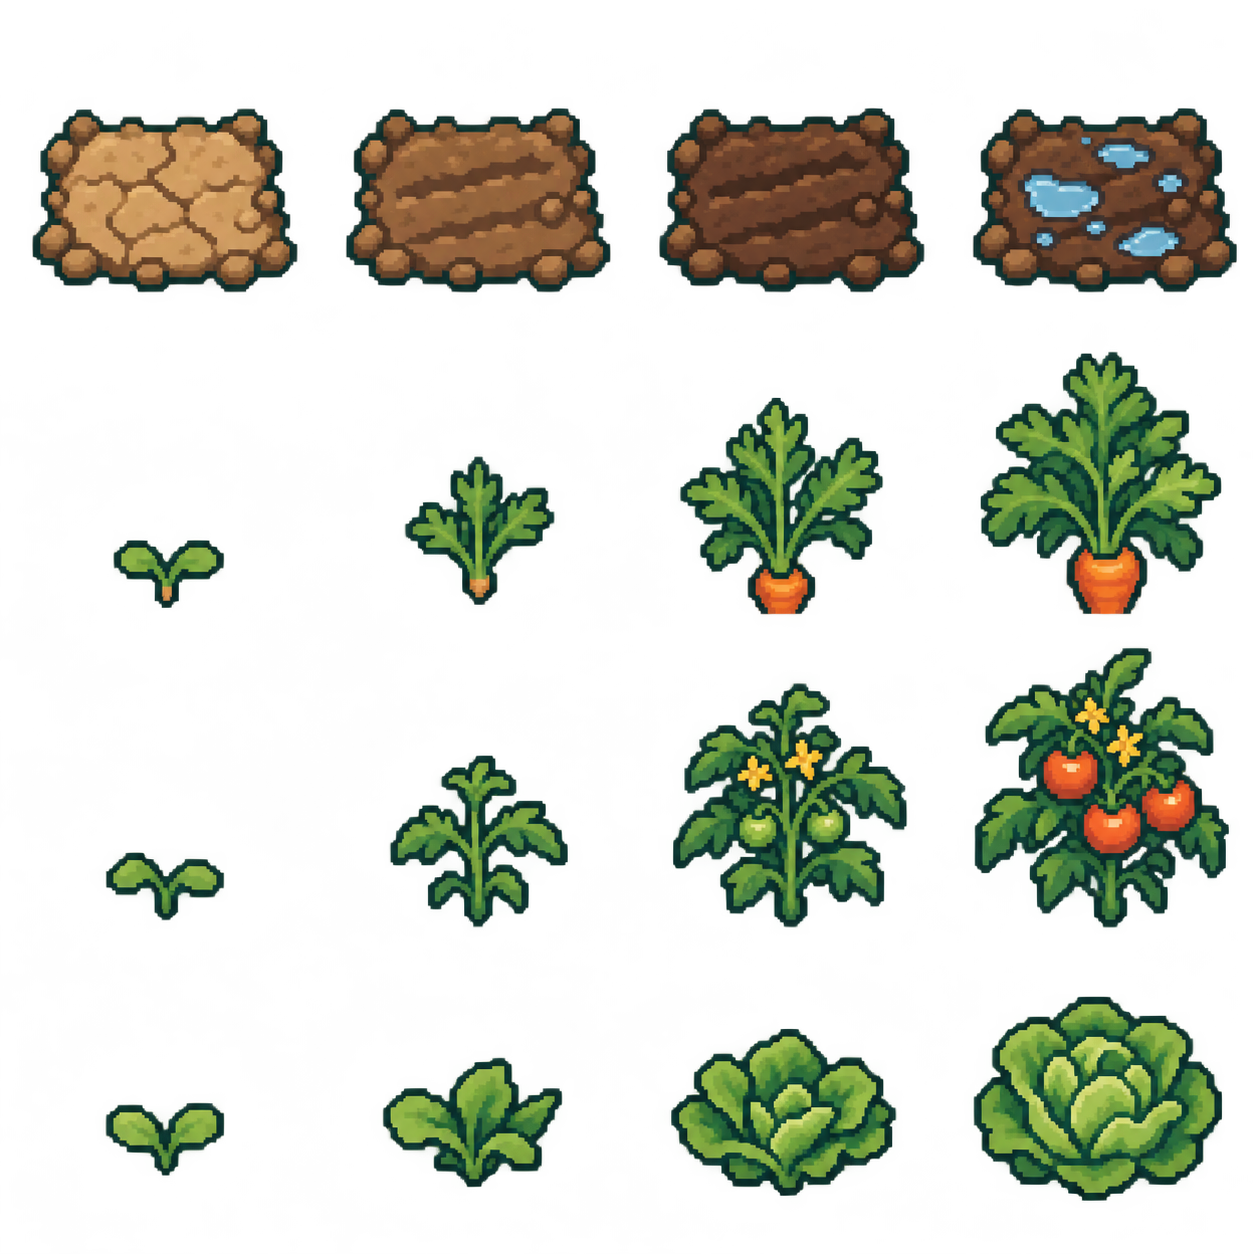
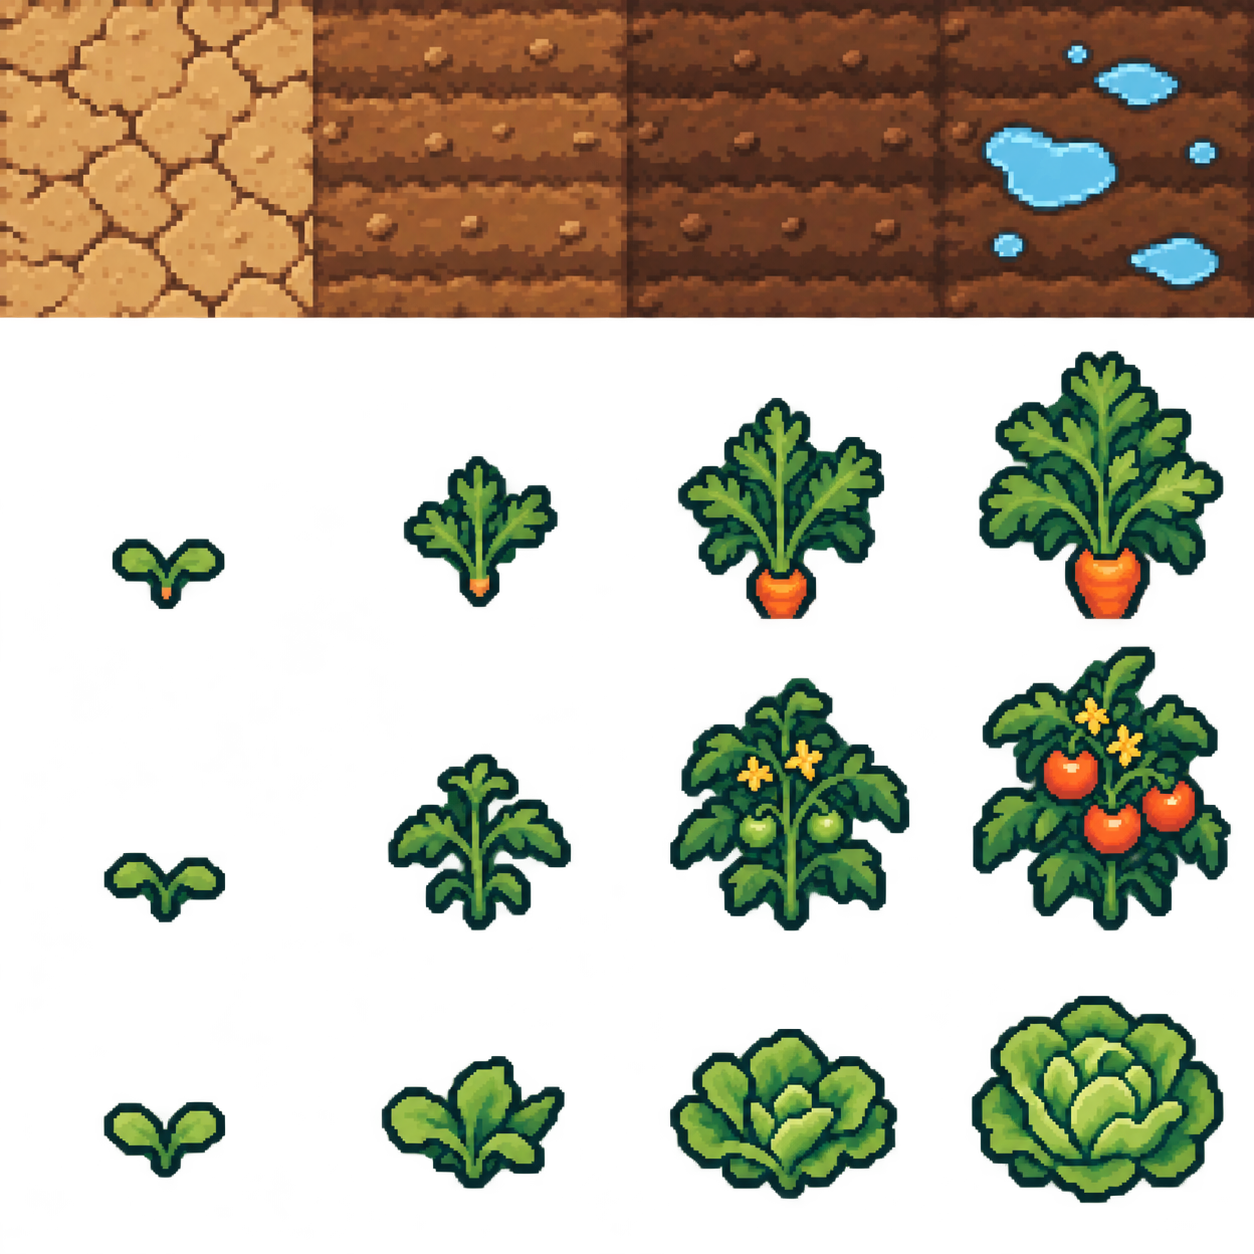
重新製作方正農田素材並新增拼接外觀展示

diff --git a/style.css b/style.css
@@ -1,4 +1,4 @@
-:root{--ink:#263f3c;--teal:#35665b;--mint:#8fc7a3;--cream:#f0e4bb;--paper:#edf0df;--line:#c1cfb9}*{box-sizing:border-box}body{margin:0;background:var(--paper);color:var(--ink);font-family:"PingFang TC","Microsoft JhengHei",sans-serif}header{padding:24px 5vw;border-bottom:1px solid var(--line);display:flex;justify-content:space-between;align-items:center}.brand{font-weight:800;font-size:22px}.brand small{font-size:11px;font-weight:400;margin-left:20px;letter-spacing:2px}.tag,.eyebrow{font-size:12px;letter-spacing:2px}.tag{border:1px solid var(--teal);padding:8px 12px}main{max-width:1320px;margin:auto;padding:0 40px}.intro{display:flex;justify-content:space-between;align-items:center;padding:36px 0 30px}.intro h1{font-family:"Songti TC",serif;font-size:40px;line-height:1.25;margin:12px 0}.intro>p{font-size:14px;line-height:1.9;color:#607568;padding-right:38px}.eyebrow{color:var(--teal)}.workbench{display:grid;grid-template-columns:minmax(0,1fr) 290px;border:1px solid var(--teal);box-shadow:6px 6px 0 #c1cfb9}.scene-panel{min-width:0;background:#dae5ce}.scene-top{padding:15px 20px;background:var(--teal);color:#f0e4bb;display:flex;justify-content:space-between;font-size:12px}.live{color:#c7e5b3}.climate{display:flex;justify-content:space-around;padding:16px;font-size:11px;background:#e4ead7}.climate b{font-family:monospace;font-size:15px;margin-left:8px}.greenhouse{height:405px;position:relative;overflow:hidden;background:#b8d3be}.windows{position:absolute;inset:0 0 100px;background:repeating-linear-gradient(90deg,transparent 0,transparent calc(25% - 7px),#719484 calc(25% - 7px),#719484 25%),linear-gradient(#badbd0,#d9e9bd);border-bottom:12px solid #779784}.windows:after{content:"";position:absolute;top:85px;left:0;right:0;border-top:6px solid #90ae96}.floor{position:absolute;inset:210px 0 0;background:repeating-linear-gradient(0deg,transparent 0,transparent 39px,#acc1a1 40px),#c7d0a5;transform:skewY(-3deg);border-top:6px solid #99ae89}.plots{position:absolute;inset:60px 5% 28px;display:grid;grid-template-columns:repeat(3,1fr);grid-template-rows:repeat(2,1fr)}.plot{position:relative;background:transparent;border:0;cursor:pointer;min-width:0;padding:0;isolation:isolate}.plot:after{content:"";position:absolute;bottom:13px;left:20%;width:60%;height:8px;background:#f0e4bb;opacity:0;z-index:-1}.plot.selected:after{opacity:1}.sprite{background-repeat:no-repeat;background-size:400% 400%;image-rendering:pixelated;pointer-events:none}.farm{background-image:url('assets/farm-atlas-v01.png?v=04')}.soil{position:absolute;width:150px;height:150px;left:50%;bottom:-10px;transform:translateX(-50%)}.plant{position:absolute;width:115px;height:115px;left:50%;bottom:23px;transform:translateX(-50%)}.bot{position:absolute;width:132px;height:132px;left:8%;top:88px;transition:left .65s,top .65s;pointer-events:none;filter:drop-shadow(0 12px 0 #476b5022)}.robot{background-image:url('assets/robot-atlas-v01.png');width:100%;height:100%}.scene-label{position:absolute;bottom:12px;left:0;right:0;text-align:center;color:#536f55;font-size:11px}.scene-foot{display:flex;justify-content:space-between;align-items:center;padding:12px 20px;font-size:12px;border-top:1px solid #adc1a5}button,select{font:inherit;color:var(--ink)}button{cursor:pointer}button:focus-visible,select:focus-visible,input:focus-visible,a:focus-visible{outline:3px solid #bd7534;outline-offset:3px}.scene-foot button{border:0;background:transparent;text-decoration:underline;padding:8px}aside{background:#f4f3e6;padding:24px;border-left:1px solid var(--teal)}h2{font-size:20px;margin:9px 0 24px}label{display:block;font-size:12px;margin:22px 0 10px}label span{float:right;color:var(--teal)}.choices{display:grid;grid-template-columns:repeat(4,1fr);gap:5px}.choices button{border:1px solid var(--line);background:transparent;padding:9px 0;font-size:12px}.choices .active{background:var(--teal);color:#fff;border-color:var(--teal)}select{width:100%;background:#edf0df;border:1px solid var(--line);padding:11px}input{width:100%;accent-color:var(--teal)}.range-label{display:flex;justify-content:space-between;font-size:10px;color:#6e7c6b}.note{font-size:11px;line-height:1.8;color:#7a8475;margin-top:23px}.library{padding:45px 0 15px}.library-heading{display:flex;justify-content:space-between;align-items:center}.library-heading>span{font-size:12px;color:#6e7c6b}.catalog-row{display:grid;grid-template-columns:120px repeat(4,1fr);align-items:center;border-top:1px solid var(--line);padding:12px 0}.catalog-row strong{font-size:13px}.sample{text-align:center;font-size:11px;color:#607568}.sample .sprite{width:94px;height:94px;margin:auto}.sample .robot{background-image:url('assets/robot-atlas-v01.png')}footer{display:flex;gap:22px;flex-wrap:wrap;padding:25px 0 40px;border-top:1px solid var(--line);font-size:11px}a{color:var(--teal)}@media(max-width:850px){main{padding:0 18px}.workbench{grid-template-columns:1fr}aside{border-left:0;border-top:1px solid var(--teal)}.intro h1{font-size:32px}.intro>p{display:none}.brand small{display:none}.greenhouse{height:390px}.catalog-row{grid-template-columns:70px repeat(4,1fr)}.sample .sprite{width:65px;height:65px}.library-heading>span{font-size:10px}.soil{width:120px;height:120px}.plant{width:96px;height:96px;bottom:15px}.bot{width:110px;height:110px}.scene-top{padding:12px;font-size:10px}.climate{padding:12px 4px}.climate b{font-size:12px}.tag{font-size:10px}.library-heading h2{font-size:18px}}@media(prefers-reduced-motion:reduce){.bot{transition:none}}
+:root{--ink:#263f3c;--teal:#35665b;--mint:#8fc7a3;--cream:#f0e4bb;--paper:#edf0df;--line:#c1cfb9}*{box-sizing:border-box}body{margin:0;background:var(--paper);color:var(--ink);font-family:"PingFang TC","Microsoft JhengHei",sans-serif}header{padding:24px 5vw;border-bottom:1px solid var(--line);display:flex;justify-content:space-between;align-items:center}.brand{font-weight:800;font-size:22px}.brand small{font-size:11px;font-weight:400;margin-left:20px;letter-spacing:2px}.tag,.eyebrow{font-size:12px;letter-spacing:2px}.tag{border:1px solid var(--teal);padding:8px 12px}main{max-width:1320px;margin:auto;padding:0 40px}.intro{display:flex;justify-content:space-between;align-items:center;padding:36px 0 30px}.intro h1{font-family:"Songti TC",serif;font-size:40px;line-height:1.25;margin:12px 0}.intro>p{font-size:14px;line-height:1.9;color:#607568;padding-right:38px}.eyebrow{color:var(--teal)}.workbench{display:grid;grid-template-columns:minmax(0,1fr) 290px;border:1px solid var(--teal);box-shadow:6px 6px 0 #c1cfb9}.scene-panel{min-width:0;background:#dae5ce}.scene-top{padding:15px 20px;background:var(--teal);color:#f0e4bb;display:flex;justify-content:space-between;font-size:12px}.live{color:#c7e5b3}.climate{display:flex;justify-content:space-around;padding:16px;font-size:11px;background:#e4ead7}.climate b{font-family:monospace;font-size:15px;margin-left:8px}.greenhouse{height:405px;position:relative;overflow:hidden;background:#b8d3be}.windows{position:absolute;inset:0 0 100px;background:repeating-linear-gradient(90deg,transparent 0,transparent calc(25% - 7px),#719484 calc(25% - 7px),#719484 25%),linear-gradient(#badbd0,#d9e9bd);border-bottom:12px solid #779784}.windows:after{content:"";position:absolute;top:85px;left:0;right:0;border-top:6px solid #90ae96}.floor{position:absolute;inset:210px 0 0;background:repeating-linear-gradient(0deg,transparent 0,transparent 39px,#acc1a1 40px),#c7d0a5;transform:skewY(-3deg);border-top:6px solid #99ae89}.plots{position:absolute;inset:60px 5% 28px;display:grid;grid-template-columns:repeat(3,1fr);grid-template-rows:repeat(2,1fr)}.plot{position:relative;background:transparent;border:0;cursor:pointer;min-width:0;padding:0;isolation:isolate}.plot:after{content:"";position:absolute;bottom:13px;left:20%;width:60%;height:8px;background:#f0e4bb;opacity:0;z-index:-1}.plot.selected:after{opacity:1}.sprite{background-repeat:no-repeat;background-size:400% 400%;image-rendering:pixelated;pointer-events:none}.farm{background-image:url('assets/farm-atlas-v01.png?v=07')}.soil{position:absolute;width:150px;height:150px;left:50%;bottom:-10px;transform:translateX(-50%)}.plant{position:absolute;width:115px;height:115px;left:50%;bottom:23px;transform:translateX(-50%)}.bot{position:absolute;width:132px;height:132px;left:8%;top:88px;transition:left .65s,top .65s;pointer-events:none;filter:drop-shadow(0 12px 0 #476b5022)}.robot{background-image:url('assets/robot-atlas-v01.png');width:100%;height:100%}.scene-label{position:absolute;bottom:12px;left:0;right:0;text-align:center;color:#536f55;font-size:11px}.scene-foot{display:flex;justify-content:space-between;align-items:center;padding:12px 20px;font-size:12px;border-top:1px solid #adc1a5}button,select{font:inherit;color:var(--ink)}button{cursor:pointer}button:focus-visible,select:focus-visible,input:focus-visible,a:focus-visible{outline:3px solid #bd7534;outline-offset:3px}.scene-foot button{border:0;background:transparent;text-decoration:underline;padding:8px}aside{background:#f4f3e6;padding:24px;border-left:1px solid var(--teal)}h2{font-size:20px;margin:9px 0 24px}label{display:block;font-size:12px;margin:22px 0 10px}label span{float:right;color:var(--teal)}.choices{display:grid;grid-template-columns:repeat(4,1fr);gap:5px}.choices button{border:1px solid var(--line);background:transparent;padding:9px 0;font-size:12px}.choices .active{background:var(--teal);color:#fff;border-color:var(--teal)}select{width:100%;background:#edf0df;border:1px solid var(--line);padding:11px}input{width:100%;accent-color:var(--teal)}.range-label{display:flex;justify-content:space-between;font-size:10px;color:#6e7c6b}.note{font-size:11px;line-height:1.8;color:#7a8475;margin-top:23px}.library{padding:45px 0 15px}.library-heading{display:flex;justify-content:space-between;align-items:center}.library-heading>span{font-size:12px;color:#6e7c6b}.catalog-row{display:grid;grid-template-columns:120px repeat(4,1fr);align-items:center;border-top:1px solid var(--line);padding:12px 0}.catalog-row strong{font-size:13px}.sample{text-align:center;font-size:11px;color:#607568}.sample .sprite{width:94px;height:94px;margin:auto}.sample .robot{background-image:url('assets/robot-atlas-v01.png')}footer{display:flex;gap:22px;flex-wrap:wrap;padding:25px 0 40px;border-top:1px solid var(--line);font-size:11px}a{color:var(--teal)}@media(max-width:850px){main{padding:0 18px}.workbench{grid-template-columns:1fr}aside{border-left:0;border-top:1px solid var(--teal)}.intro h1{font-size:32px}.intro>p{display:none}.brand small{display:none}.greenhouse{height:390px}.catalog-row{grid-template-columns:70px repeat(4,1fr)}.sample .sprite{width:65px;height:65px}.library-heading>span{font-size:10px}.soil{width:120px;height:120px}.plant{width:96px;height:96px;bottom:15px}.bot{width:110px;height:110px}.scene-top{padding:12px;font-size:10px}.climate{padding:12px 4px}.climate b{font-size:12px}.tag{font-size:10px}.library-heading h2{font-size:18px}}@media(prefers-reduced-motion:reduce){.bot{transition:none}}
 /* 每格使用獨立取樣範圍，畫布保留完整種子、水流及採收物。 */
 .sprite.robot,.sample .robot{background-image:none}
 .robot canvas{display:block;width:100%;height:100%;image-rendering:pixelated}
@@ -35,3 +35,21 @@ button:disabled,select:disabled,input:disabled{opacity:.45;cursor:not-allowed}
 /* v0.6：持物與角色共用每格手掌座標。 */
 .sample .robot{position:relative;overflow:visible}
 .sample-cargo{position:absolute;width:42%;aspect-ratio:1;transform:translateX(-50%);pointer-events:none}
+
+
+/* v0.7：土壤面填滿正方形田格，鄰格以直邊相接。 */
+.plots{inset:90px 0 auto;width:min(84%,384px);height:auto;aspect-ratio:3/2;margin:0 auto}
+.plot .soil{inset:0;width:100%;height:100%;transform:none}
+.plot .plant{width:100%;height:100%;bottom:32%}
+.plot.selected{outline:2px solid var(--cream);outline-offset:-3px;z-index:1}
+.plot:after{display:none}
+.tile-showcase{padding:36px 0;border-bottom:1px solid var(--line)}
+.tile-showcase h2{margin-bottom:12px}
+.tile-showcase>p{font-size:13px;line-height:1.8;color:#607568}
+#tile-soils{max-width:400px;margin:20px 0}
+.tile-arrangements{display:grid;grid-template-columns:repeat(4,minmax(0,1fr));gap:16px;--soil-x:33.333333%}
+.tile-arrangement{margin:0;padding:18px;border:1px solid var(--line);background:#e3e9d5}
+.soil-piece{display:grid;grid-template-columns:repeat(4,1fr);grid-template-rows:repeat(4,1fr);aspect-ratio:1;width:100%;max-width:200px;margin:auto;background:linear-gradient(#c1cfb955 1px,transparent 1px),linear-gradient(90deg,#c1cfb955 1px,transparent 1px);background-size:25% 25%}
+.soil-unit{width:100%;height:100%;background-position:var(--soil-x) 0}
+.tile-arrangement figcaption{font-size:12px;margin-top:14px;text-align:center}
+@media(max-width:700px){.tile-arrangements{grid-template-columns:repeat(2,minmax(0,1fr));gap:10px}.tile-arrangement{padding:12px}}

diff --git a/index.html b/index.html
@@ -1,7 +1,7 @@
 <!doctype html>
-<html lang="zh-Hant"><head><meta charset="utf-8"><meta name="viewport" content="width=device-width,initial-scale=1"><title>浮葉農場・素材試驗室</title><link rel="stylesheet" href="style.css?v=06"></head>
-<body><header><div class="brand">✣ 浮葉農場 <small>美術開發版本 0.6.1</small></div><span class="tag">素材互動試驗室</span></header>
+<html lang="zh-Hant"><head><meta charset="utf-8"><meta name="viewport" content="width=device-width,initial-scale=1"><title>浮葉農場・素材試驗室</title><link rel="stylesheet" href="style.css?v=07"></head>
+<body><header><div class="brand">✣ 浮葉農場 <small>美術開發版本 0.7</small></div><span class="tag">素材互動試驗室</span></header>
 <main><section class="intro"><div><p class="eyebrow">一座由小機器人照顧的農場</p><h1>讓每一片葉子，<br>慢慢長大。</h1></div><p>先看見農場的模樣。<br>試試漂浮、播種與澆水，<br>挑選你喜歡的作物生長階段。</p></section>
 <div class="workbench"><section class="scene-panel"><div class="scene-top"><span>溫室 01 ／ 動作展示</span><span class="live">● 自動環控・示意</span></div><div class="climate"><span>溫度 <b>24°C</b></span><span>空氣濕度 <b>65%</b></span><span>光照 <b>柔和日光</b></span></div><div class="greenhouse"><div class="windows"></div><div class="floor"></div><div id="plots" class="plots"></div><div id="bot" class="bot"><div id="robot" class="sprite robot"></div><div id="held-item" class="held-item" hidden></div></div><span class="scene-label">點選任一田區，讓機器人移動過去</span></div><div class="scene-foot"><span id="status" aria-live="polite">小機器人正在漂浮待命</span><button id="pause">暫停動畫</button></div></section>
 <aside><p class="eyebrow">動作與狀態</p><h2>今天，照顧什麼？</h2><div class="direction-control"><label id="heading">移動朝向：南 ↓</label><div class="turn-buttons"><button id="turn-left">↶ 左轉 90°</button><button id="turn-right">右轉 90° ↷</button><button id="forward">向前一格</button></div><p class="direction-note">以機器人自身為左右。轉向設定移動方向，工作動作維持正面，持物移動時雙手保持舉高。</p></div><label>機器人動作</label><div id="actions" class="choices"><button data-value="0" class="active">漂浮</button><button data-value="1">播種</button><button data-value="2">澆水</button><button data-value="3">採收</button></div><div class="carry-control"><span id="cargo-status" aria-live="polite">空手 ／ 最多 1 個</span><button id="drop" disabled>放下作物</button></div><label for="crop">選取田區的作物</label><select id="crop"><option value="1">胡蘿蔔</option><option value="2">番茄</option><option value="3">萵苣</option></select><label for="growth">生長階段 <span id="stage-name">成熟</span></label><input id="growth" type="range" min="0" max="3" value="3" step="1"><div class="range-label"><span>幼苗</span><span>成熟</span></div><label>土壤含水狀態</label><div id="soils" class="choices"><button data-value="0">乾裂</button><button data-value="1">一般</button><button data-value="2" class="active">濕潤</button><button data-value="3">積水</button></div><p class="note">這裡的切換只用來檢視素材。溫濕度為自動控制示意，尚未加入生長計時、資源或收益。</p></aside></div>
-<section class="library"><div class="library-heading"><div><p class="eyebrow">固定角色・一致色系</p><h2>素材標本簿</h2></div><span>20 格新增持物動畫 ＋ 3 個獨立收成</span></div><div id="catalog"></div></section><section class="produce-library"><p class="eyebrow">從田裡，到頭頂與貨架</p><h2>收成素材・商店展示預覽</h2><p class="note">每張都是獨立的單個作物圖片，與機器人分開。這裡只預覽商品外觀，尚無買賣機制。</p><div id="produce-catalog"></div></section><footer>浮葉農場 · 像素素材 v0.6.1 <a href="docs/STYLE_GUIDE.md">風格規範 ↗</a><a href="assets/robot-hover-directions-v04.png">四向漂浮圖集 ↗</a><a href="assets/robot-harvest-empty-v02.png">空手採收圖集 ↗</a><a href="assets/robot-carry-directions-v06.png">四向與待機持物圖集 ↗</a><a href="docs/prompts-v06.json">本次提示詞 ↗</a><a href="docs/prompts.json">生成提示詞 ↗</a><a href="assets/robot-atlas-v01.png">機器人圖集 ↗</a><a href="assets/farm-atlas-v01.png">農場圖集 ↗</a></footer></main><script src="alignment.js?v=061"></script><script src="app.js?v=061"></script></body></html>
+<section class="tile-showcase"><p class="eyebrow">一格一格，拼出農場的形狀</p><h2>方格農田・拼接預覽</h2><p>平直的四邊可上下左右相接，組成長條、轉角與分支。切換土壤外觀，查看不同排列。</p><div id="tile-soils" class="choices" role="group" aria-label="農田拼接預覽的土壤狀態"><button data-value="0" aria-pressed="false">乾裂</button><button data-value="1" class="active" aria-pressed="true">一般</button><button data-value="2" aria-pressed="false">濕潤</button><button data-value="3" aria-pressed="false">積水</button></div><div id="tile-preview" class="tile-arrangements"><figure class="tile-arrangement"><div class="soil-piece" role="img" aria-label="I・長條形農田"><span class="sprite farm soil-unit" style="grid-column:1;grid-row:2"></span><span class="sprite farm soil-unit" style="grid-column:2;grid-row:2"></span><span class="sprite farm soil-unit" style="grid-column:3;grid-row:2"></span><span class="sprite farm soil-unit" style="grid-column:4;grid-row:2"></span></div><figcaption>I・長條</figcaption></figure><figure class="tile-arrangement"><div class="soil-piece" role="img" aria-label="L・轉角形農田"><span class="sprite farm soil-unit" style="grid-column:2;grid-row:1"></span><span class="sprite farm soil-unit" style="grid-column:2;grid-row:2"></span><span class="sprite farm soil-unit" style="grid-column:2;grid-row:3"></span><span class="sprite farm soil-unit" style="grid-column:3;grid-row:3"></span></div><figcaption>L・轉角</figcaption></figure><figure class="tile-arrangement"><div class="soil-piece" role="img" aria-label="T・分支形農田"><span class="sprite farm soil-unit" style="grid-column:1;grid-row:2"></span><span class="sprite farm soil-unit" style="grid-column:2;grid-row:2"></span><span class="sprite farm soil-unit" style="grid-column:3;grid-row:2"></span><span class="sprite farm soil-unit" style="grid-column:2;grid-row:3"></span></div><figcaption>T・分支</figcaption></figure><figure class="tile-arrangement"><div class="soil-piece" role="img" aria-label="O・方田形農田"><span class="sprite farm soil-unit" style="grid-column:2;grid-row:2"></span><span class="sprite farm soil-unit" style="grid-column:3;grid-row:2"></span><span class="sprite farm soil-unit" style="grid-column:2;grid-row:3"></span><span class="sprite farm soil-unit" style="grid-column:3;grid-row:3"></span></div><figcaption>O・方田</figcaption></figure></div></section><section class="library"><div class="library-heading"><div><p class="eyebrow">固定角色・一致色系</p><h2>素材標本簿</h2></div><span>20 格新增持物動畫 ＋ 3 個獨立收成</span></div><div id="catalog"></div></section><section class="produce-library"><p class="eyebrow">從田裡，到頭頂與貨架</p><h2>收成素材・商店展示預覽</h2><p class="note">每張都是獨立的單個作物圖片，與機器人分開。這裡只預覽商品外觀，尚無買賣機制。</p><div id="produce-catalog"></div></section><footer>浮葉農場 · 像素素材 v0.7 <a href="docs/STYLE_GUIDE.md">風格規範 ↗</a><a href="assets/robot-hover-directions-v04.png">四向漂浮圖集 ↗</a><a href="assets/robot-harvest-empty-v02.png">空手採收圖集 ↗</a><a href="assets/robot-carry-directions-v06.png">四向與待機持物圖集 ↗</a><a href="docs/prompts-v06.json">本次提示詞 ↗</a><a href="docs/prompts.json">生成提示詞 ↗</a><a href="assets/robot-atlas-v01.png">機器人圖集 ↗</a><a href="assets/farm-atlas-v01.png">方格農田與作物圖集 ↗</a></footer></main><script src="alignment.js?v=061"></script><script src="app.js?v=07"></script></body></html>

diff --git a/app.js b/app.js
@@ -61,9 +61,11 @@ function drawPlant(el){
   ctx.clearRect(0,0,320,320);ctx.imageSmoothingEnabled=false;
   if(!farmSource.complete||!farmSource.naturalWidth)return;
   const x=Math.round(col*313.5),y=Math.round(row*313.5),[rx,ry]=spriteAlignment.cropRoots[row-1][col];
-  ctx.drawImage(farmSource,x,y,Math.round((col+1)*313.5)-x,Math.round((row+1)*313.5)-y,160-rx,285-ry,Math.round((col+1)*313.5)-x,Math.round((row+1)*313.5)-y);
+  // 生成土壤延伸至 y=317；作物取樣略過該列，不影響植株基準點。
+  const trim=row===1?4:0,w=Math.round((col+1)*313.5)-x,h=Math.round((row+1)*313.5)-y;
+  ctx.drawImage(farmSource,x,y+trim,w,h-trim,160-rx,285-ry+trim,w,h-trim);
 }
-farmSource.onload=()=>plantViews.forEach(drawPlant);farmSource.src='assets/farm-atlas-v01.png?v=05';
+farmSource.onload=()=>plantViews.forEach(drawPlant);farmSource.src='assets/farm-atlas-v01.png?v=07';
 function position(el,col,row){
   if(el.classList.contains('farm')&&row>0){
     if(!el.firstElementChild){const canvas=document.createElement('canvas');canvas.width=320;canvas.height=320;el.append(canvas);plantViews.add(el);el.classList.add('aligned-plant');}
@@ -214,3 +216,12 @@ setInterval(()=>{
   }else frame=(frame+1)%4;
   updateRobot();
 },180);
+
+
+// 方格農田標本：只切換素材外觀，預設形狀是靜態美術排列。
+$('#tile-soils').onclick=e=>{
+  if(!e.target.matches('button'))return;
+  const soil=+e.target.dataset.value;
+  $('#tile-preview').style.setProperty('--soil-x',(soil*100/3)+'%');
+  buttons('#tile-soils',soil);
+};
